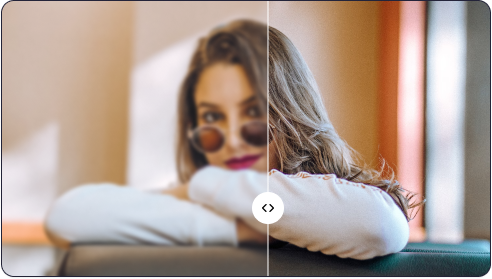
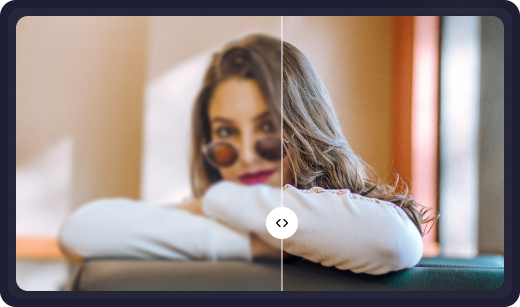
feature ongoing

diff --git a/index.html b/index.html
@@ -341,7 +341,7 @@
 
       <div class="about_row about_row2">
         <div class="container">
-          <div class="row d-flex align-items-center">
+          <div class="row flex-wrap-reverse d-flex align-items-center">
             <div class="col-lg-7">
               <div class="about_img">
                 <div class="about_bg_layer_shape">
@@ -427,6 +427,12 @@
                   />
                 </div>
                 <div class="about_img_box">
+                  <div class="about_img_mobile_device">
+                    <img
+                      src="./assets/img/about_img_3_device_size.png"
+                      alt=""
+                    />
+                  </div>
                   <img
                     class="about_main_img"
                     src="./assets/img/about_img_3.png"
@@ -441,6 +447,87 @@
       </div>
     </section>
     <!-- About End -->
+
+    <!-- Feature Start -->
+    <section id="feature">
+      <div class="container">
+        <div class="row d-flex justify-content-center">
+          <div class="col-lg-7">
+            <div class="feature_head">
+              <div class="feature_sub_title">
+                <div class="sub_title_text">
+                  <svg
+                    width="14"
+                    height="14"
+                    viewBox="0 0 14 14"
+                    fill="none"
+                    xmlns="http://www.w3.org/2000/svg"
+                  >
+                    <path
+                      d="M11.0833 5.25018L10.3542 3.64602L8.75 2.91685L10.3542 2.18768L11.0833 0.583516L11.8125 2.18768L13.4167 2.91685L11.8125 3.64602L11.0833 5.25018ZM11.0833 13.4169L10.3542 11.8127L8.75 11.0835L10.3542 10.3544L11.0833 8.75018L11.8125 10.3544L13.4167 11.0835L11.8125 11.8127L11.0833 13.4169ZM5.25 11.6669L3.79167 8.45852L0.583334 7.00018L3.79167 5.54185L5.25 2.33352L6.70833 5.54185L9.91667 7.00018L6.70833 8.45852L5.25 11.6669Z"
+                      fill="white"
+                      fill-opacity="0.8"
+                    />
+                  </svg>
+                  <span>Next-Gen Image Editing</span>
+                </div>
+              </div>
+
+              <h1 class="feature_title">Features of <span>ImagesAI</span></h1>
+
+              <p class="feature_desc">
+                Lorem ipsum dolor sit amet consectetur. Suscipit purus felis
+                euismod molestie leo amet id vulputate. Volutpat adipiscing
+                rhoncus mauris dignissim. Neque.
+              </p>
+            </div>
+          </div>
+        </div>
+
+        <div class="row">
+          <div class="col-lg-7">
+            <div class="feature_card">
+              <div class="card_shape">
+                <img src="./assets/img/feature_card_shape.svg" alt="" />
+              </div>
+              <div class="card_content">
+                <div class="feature_card_sub_title">
+                  <div class="sub_title_text">
+                    <svg
+                      width="14"
+                      height="14"
+                      viewBox="0 0 14 14"
+                      fill="none"
+                      xmlns="http://www.w3.org/2000/svg"
+                    >
+                      <path
+                        d="M11.0833 5.25018L10.3542 3.64602L8.75 2.91685L10.3542 2.18768L11.0833 0.583516L11.8125 2.18768L13.4167 2.91685L11.8125 3.64602L11.0833 5.25018ZM11.0833 13.4169L10.3542 11.8127L8.75 11.0835L10.3542 10.3544L11.0833 8.75018L11.8125 10.3544L13.4167 11.0835L11.8125 11.8127L11.0833 13.4169ZM5.25 11.6669L3.79167 8.45852L0.583334 7.00018L3.79167 5.54185L5.25 2.33352L6.70833 5.54185L9.91667 7.00018L6.70833 8.45852L5.25 11.6669Z"
+                        fill="white"
+                        fill-opacity="0.8"
+                      />
+                    </svg>
+                    <span>Next-Gen Image Editing</span>
+                  </div>
+                </div>
+                <h2>Image Upscaler (improve resolution)</h2>
+                <p>
+                  Powered by AI enhancement algorithms trained for super crisp
+                  results, PicWish Photo Enhancer helps to perfect your
+                  low-resolution photos in no time. Enhance image into twice or
+                  four times total pixel count for a brilliant result.
+                </p>
+
+                <div class="feature_card_img">
+                  <img src="./assets/img/feature_img_1.png" alt="" />
+                </div>
+              </div>
+            </div>
+          </div>
+          <div class="col-lg-5"></div>
+        </div>
+      </div>
+    </section>
+    <!-- Feature End -->
 
     <!-- Bootstrap JS Link -->
     <script src="./assets/css/bootstrap/js/bootstrap.bundle.js"></script>

diff --git a/assets/css/style.css b/assets/css/style.css
@@ -670,6 +670,16 @@ a {
   font-weight: 500;
 }
 
+.about_img_mobile_device {
+  position: absolute;
+  left: -80px;
+  bottom: -80px;
+}
+
+.about_img_mobile_device img {
+  width: 100%;
+}
+
 @media screen and (max-width: 1620px) {
   .about_row2 .about_bg_layer_shape {
     left: 0px;
@@ -687,4 +697,230 @@ a {
   }
 }
 
+@media screen and (max-width: 990px) {
+  .about_head .about_sub_title {
+    width: 220px;
+  }
+
+  .about_head .about_sub_title::before {
+    left: -70px;
+    width: 70px;
+  }
+
+  .about_head .about_sub_title::after {
+    right: -70px;
+    width: 70px;
+  }
+
+  .about_head .about_sub_title span {
+    font-size: 0.9em;
+  }
+
+  .about_head .about_title {
+    font-size: 2.3em;
+  }
+
+  .about_head .about_desc {
+    font-size: 0.9em;
+  }
+
+  .about_content {
+    text-align: center;
+  }
+
+  .about_content .about_icon {
+    margin: 0 auto 30px;
+  }
+
+  .about_content h1 {
+    margin-bottom: 15px;
+  }
+
+  .about_row1 .about_img {
+    align-items: center;
+    margin-top: 70px;
+  }
+  .about_row2 .about_img {
+    align-items: center;
+    margin-top: 70px;
+  }
+
+  .about_row1 .about_bg_layer_shape {
+    display: none;
+  }
+
+  .about_row2 .about_bg_layer_shape {
+    display: none;
+  }
+
+  .about_img_generate_box {
+    padding: 6px 12px;
+  }
+
+  .about_row1 .about_img_generate_box_wrapper {
+    bottom: -22px;
+    left: 50%;
+    transform: translate(-50%);
+    width: 65%;
+  }
+
+  .about_row2 .about_img_generate_box_wrapper {
+    bottom: -38px;
+    left: 50%;
+    transform: translate(-50%);
+    width: 65%;
+  }
+
+  .about_img_generate_box input {
+    font-size: 10px;
+    width: 120px;
+  }
+
+  .about_img_generate_box button {
+    padding: 4px 8px;
+    font-size: 8px;
+  }
+
+  .about_row {
+    margin-top: 100px;
+  }
+}
+
+@media screen and (max-width: 575px) {
+  .about_img_mobile_device {
+    left: -35px;
+    bottom: -35px;
+  }
+
+  .about_img_mobile_device img {
+    width: 70%;
+  }
+}
+
+@media screen and (max-width: 480px) {
+  .about_img_mobile_device {
+    left: -30px;
+    bottom: -30px;
+  }
+
+  .about_img_mobile_device img {
+    width: 50%;
+  }
+}
+
 /* About End */
+
+/* Feature Start */
+
+#feature {
+  padding: 100px 0;
+}
+
+.feature_head .feature_sub_title {
+  width: 240px;
+  margin: auto;
+  position: relative;
+}
+
+.feature_head .feature_sub_title::before {
+  content: "";
+  position: absolute;
+  left: -80px;
+  top: 50%;
+  transform: translateY(-50%);
+  width: 80px;
+  height: 1px;
+  background: linear-gradient(
+    115deg,
+    #f9a65a 2.67%,
+    rgba(255, 116, 173, 0.6) 35.53%,
+    rgba(154, 107, 254, 0) 67.71%
+  );
+  transform: rotate(180deg);
+}
+
+.feature_head .feature_sub_title::after {
+  content: "";
+  position: absolute;
+  right: -80px;
+  top: 50%;
+  transform: translateY(-50%);
+  width: 80px;
+  height: 1px;
+  background: linear-gradient(
+    115deg,
+    #f9a65a 2.67%,
+    rgba(255, 116, 173, 0.6) 35.53%,
+    rgba(154, 107, 254, 0) 67.71%
+  );
+}
+
+.feature_head .sub_title_text {
+  display: flex;
+  gap: 10px;
+  align-items: center;
+  justify-content: center;
+  padding: 5px;
+  border-radius: 30px;
+  border: 1px solid #494a4d;
+  background: rgba(41, 41, 41, 0.16);
+  box-shadow: 0px -1px 4px 0px rgba(255, 255, 255, 0.12) inset;
+}
+
+.feature_head .feature_sub_title span {
+  background: linear-gradient(180deg, #fff 0%, rgba(255, 255, 255, 0) 214.29%);
+  background-clip: text;
+  -webkit-background-clip: text;
+  -webkit-text-fill-color: transparent;
+  font-size: 1em;
+  font-weight: 500;
+  color: var(--white);
+  font-family: var(--secondary-font);
+}
+
+.feature_head .feature_title {
+  color: rgba(255, 255, 255, 0.9);
+  font-family: var(--primary-font);
+  font-size: 3.5em;
+  font-weight: 500;
+  text-transform: capitalize;
+  text-align: center;
+  margin: 20px 0;
+}
+
+.feature_head .feature_title span {
+  background: var(--gradient);
+  background-clip: text;
+  -webkit-background-clip: text;
+  -webkit-text-fill-color: transparent;
+}
+
+.feature_head .feature_desc {
+  color: var(--text-color);
+  font-family: var(--secondary-font);
+  font-size: 1em;
+  font-weight: 500;
+  text-align: center;
+}
+
+.feature_card {
+  position: relative;
+  border-radius: 14px;
+  border: 1px solid #242439;
+  background: #0f0f26;
+  box-shadow: 0px 4px 24px 0px #061c30;
+  z-index: -2;
+}
+
+.feature_card .card_shape {
+  position: absolute;
+  top: 0;
+  right: 0;
+  z-index: -1;
+}
+
+.feature_card .card_content {
+  z-index: 99 !important;
+}
+
+/* Feature End */
